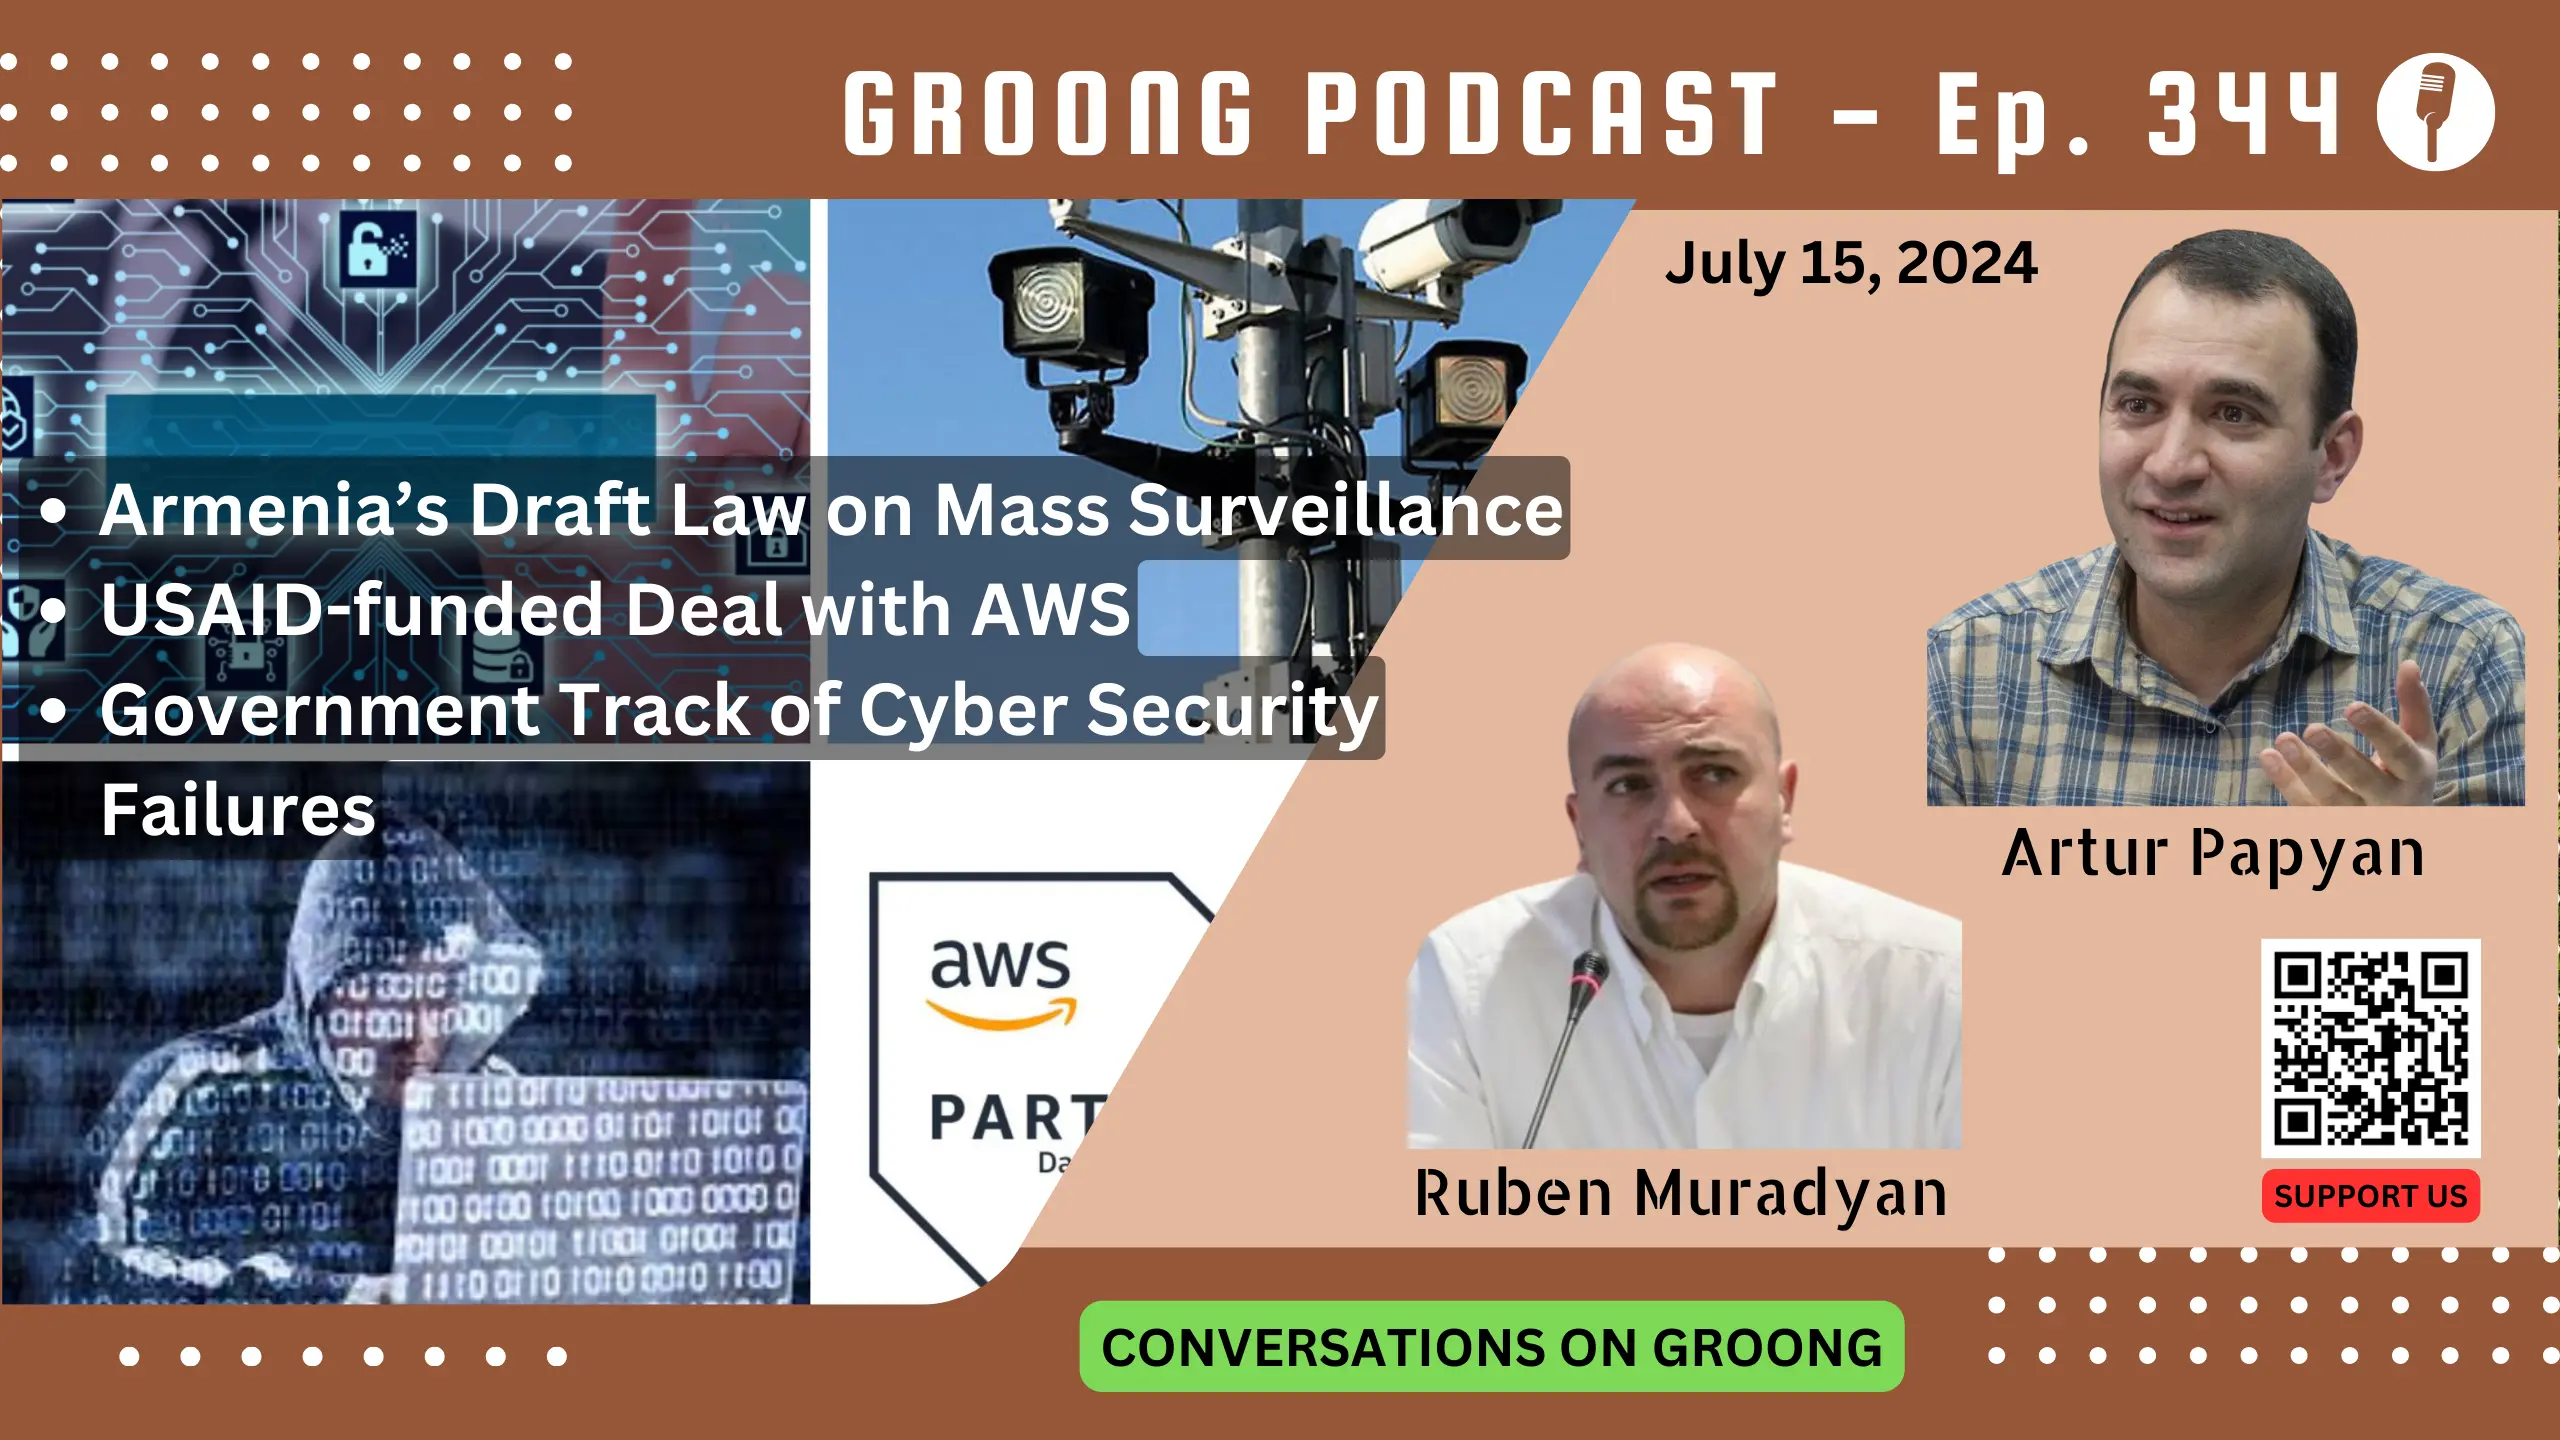
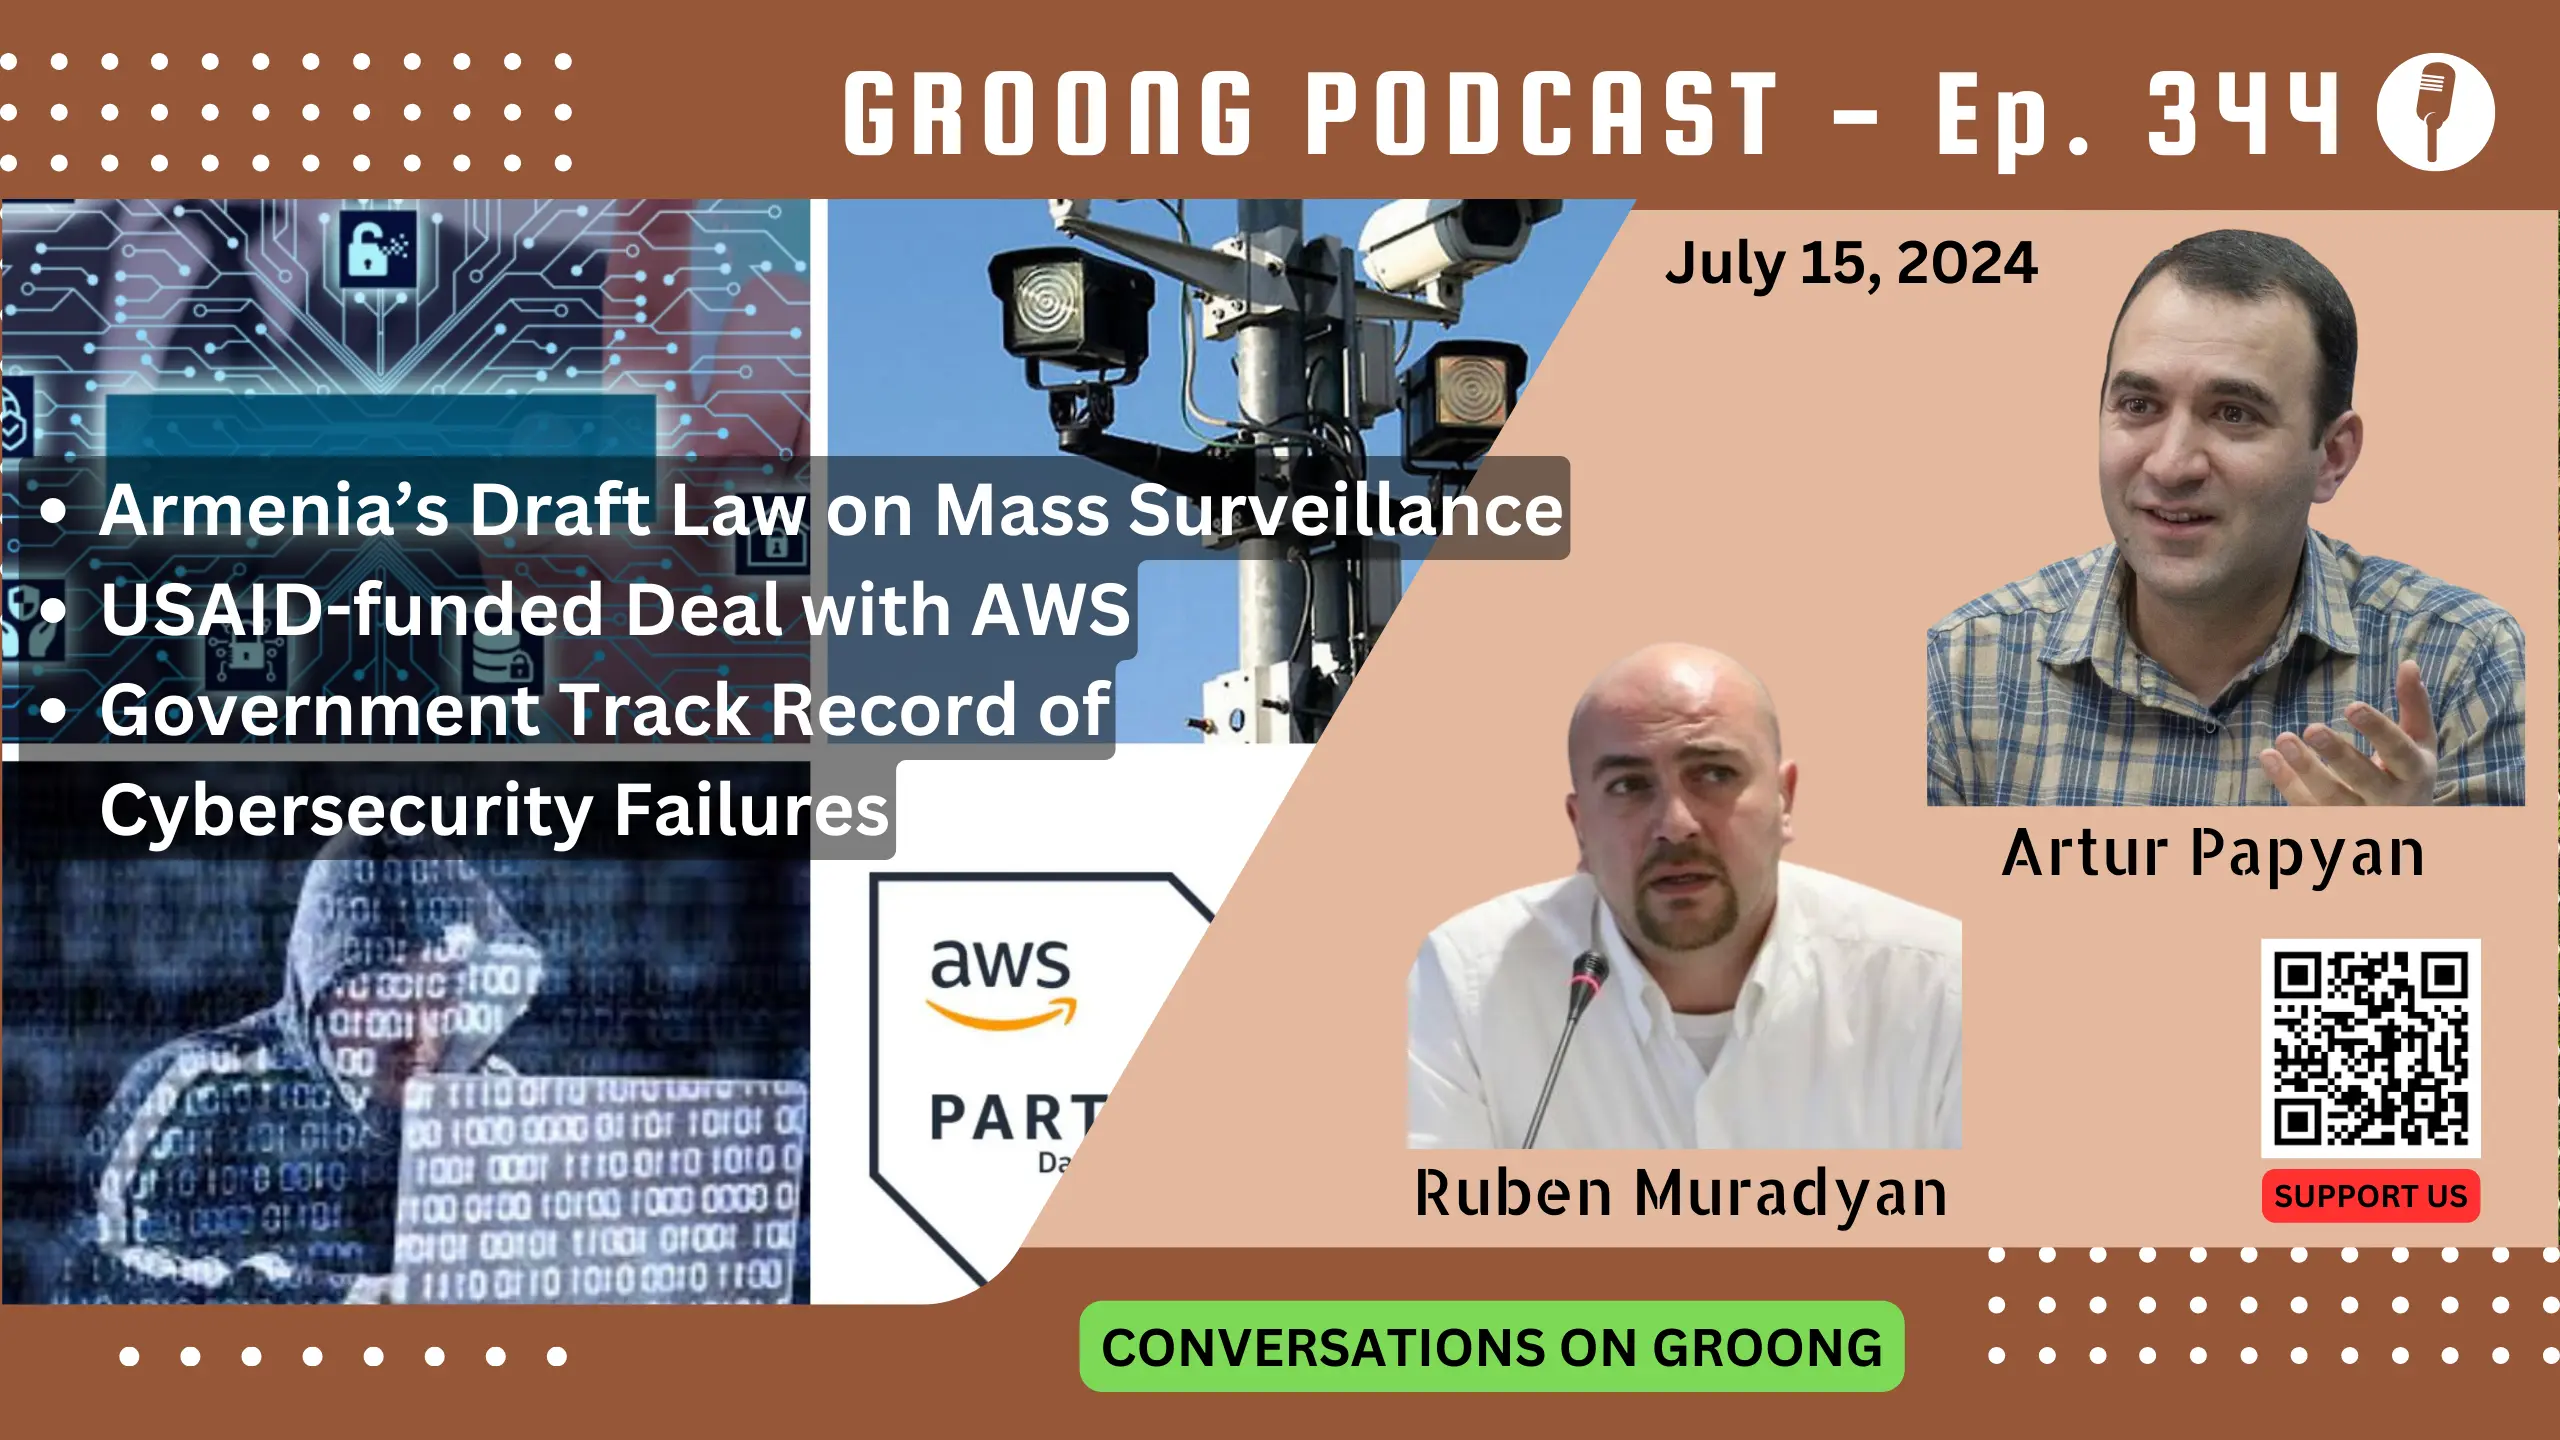
Go Live Ep 344 with Ruben Muradyan and Artur Papyan, plus typo fixes to EP 343

Changed region(s): [[0.0312, 0.4375, 0.5625, 0.625]]

diff --git a/content/episode/344-armenia-draft-law-on-cameras-and-mass-surveillance-usaid-funded-aws-deal-gov-track-record-of-cybersecurity-failures.md b/content/episode/344-armenia-draft-law-on-cameras-and-mass-surveillance-usaid-funded-aws-deal-gov-track-record-of-cybersecurity-failures.md
@@ -1,0 +1,123 @@
++++
+Date = 2024-07-15T00:00:00+04:00
+
+podcast_file = "15418390-artur-papyan-ruben-muradyan-on-armenia-s-draft-law-on-mass-surveillance-and-cybersecurity-track-record-ep-344-july-15-2024.mp3"
+podcast_bytes = "43635957"
+podcast_duration = "3633"
+youtube = "UuFeGKmBYrw"
+
+episode_image = "img/episode/344/thumbnail-344.webp"
+episode_banner = "img/episode/344/banner-344.webp"
+images = ["img/episode/344/banner-344.webp"]
+
+title = "Artur Papyan, Ruben Muradyan on Armenia’s Draft Law on Mass Surveillance and Cybersecurity Track Record | Ep 344, July 15, 2024"
+subtitle = "Conversations on Groong - 07/15/2024"
+
+guests = ["apapyan", "rmuradyan"]
+hosts = ["hovik","asbed"]
+
+episode = "344"
+aliases = ["/344"]
+
+series = ["cog"]
+categories = ["Armenia", "Azerbaijan", "Legislation". "Cyber"]
+explicit = "no" # values are "yes" or "no"
+tags = ["Armenian News", "Draft Law", "CyberSecurity", "Surveillance", "Facial Recognition", "Arthur Papyan", "Ruben Muradyan", "Surveillance", "Camera", "Protesters", "Criminals", "Tax Burden", "Unfunded Mandate", "Data Privacy", "Data Protection", "Privacy Invasion", "Amazon Web Services", "AWS", "Data Sovereignty", "GDPR", "EU", "Huawei", "Cryptocurrency", "Online Casinos", "Online Gambling", "Content Filtering", "Central Bank of Armenia", "CBA", "Cybersecurity Failure", "Network Penetration", "Hackers"]
+
+Description = """
+
+#### Groong Links:
+* [GIVE to GROONG](https://podcasts.groong.org/donate)
+* [linktr.ee/Groong](https://linktr.ee/groong)
+
+#### Guest:
+* [Artur Papyan](/guest/apapyan)
+* [Ruben Muradyan](/guest/rmuradyan)
+
+#### Topics:
+* Armenia’s Draft Law on Mass Surveillance
+* USAID-funded Deal with AWS
+* Government Track Record of Cybersecurity Failures
+
+
+Episode 344 | Recorded: July 11, 2024
+"""
+
++++
+
+# Is Armenia Becoming a Surveillance State
+
+
+## Draft Law on Ubiquitous Surveillance
+
+Last month a very onerous [surveillance law](http://parliament.am/drafts.php?sel=showdraft&DraftID=14934&Reading=0) was proposed by Pashinyan’s government, which flew under most radars except the few in the business of security, privacy and and civil rights protections.
+
+Essentially the law would require all but the smallest of businesses to install hi-res cameras to watch over and around the entrance and exits of their premises, and what’s more: to continuously share the video and audio streams with the government.
+
+Pretty much all businesses that occupy over 50 m<sup>2</sup> of space would be affected.
+
+**Questions:**
+* Arthur: Can you give a brief overview of this law for our listeners?
+* Who is going to pay for all of this surveillance equipment, its installation and maintenance?
+    * Note: this is essentially a tax (or fee) on businesses. An unfunded mandate.
+
+Crime and drug trafficking in Armenia has been [on the rise](https://www.azatutyun.am/a/32983511.html) since 2018, when Pashinyan took over. So his government is fully on board with this law, pretending that this will solve their problems. 
+
+The Interior, Defense, and Justice ministries have signed up despite the fact that the Justice ministry’s own Data Protection Agency raised red flags about the proposed law.
+
+**Questions:**
+* What is the current status of this proposed law?
+* What are the privacy concerns with this law, and how have privacy experts reacted to it?
+* Has the government submitted this law to international organizations for a review, and comparison with other similar laws?
+* Are there examples of other countries where this type of law exists?
+* Will businesses even be notified if their data is accessed? Or is there a subpoena process for accessing the data?
+
+
+### Trust and Verify
+
+One of the key concerns to address is **trust** in a centralized surveillance system. Who will be reviewing the data feeds, what policies govern the data protection, handling and retention aspects, and how will it be possible to verify the trust that people must put in the government, ANY government. The Armenian government’s [track record for information access is not good](https://csometer.info/updates/armenia-draft-law-access-information-criticised-csos).
+
+**Questions:**
+* Are there any regulations in Armenia governing the handling of this type of data?
+    * Are the regulations robust?
+
+
+## Armenia’s US-funded Deal with AWS
+
+As if our concern about Armenia increasing its surveillance of its citizens, we were reminded this week about a new concern. During her visit to Armenia this week, Samantha Power, director of the USAID, [announced](https://www.usaid.gov/news-information/speeches/jul-10-2024-administrator-samantha-powers-remarks-government-armenia-and-amazon-web-services-collaboration) a US-funded deal for the Armenian government to use Amazon Web Services (AWS) as part of its “digital transformation” efforts.
+
+The announcement sounded more like a press release drafted by a cloud provider than the US government but specifically said that Armenia needs systems **_“that can withstand cyber attacks, systems that are governed by clear regulatory frameworks that protect human rights and privacy for citizens”._**
+
+**Question:**
+* Do we know any more details about how the Armenian government plans to use this money?
+
+
+### Data Sovereignty
+
+One of the main aspects of this deal is that Armenia would lose sovereignty over any of the data it stores in AWS, because AWS does not have data centers in Armenia.
+
+There are numerous compliance laws that countries have put forth to govern how cloud providers should store and process their data. These are normally called “Regions” by cloud providers and you as a customer can instruct the cloud provider to store your data in only a specific region. GDPR is a popular EU-wide regulation that, for instance, stipulates that data of EU persons should be stored only in EU regions or in regions that have safe harbor agreements with the EU.
+
+**Questions:**
+* Do we know what type of data the Armenian government intends to store in the cloud?
+* Even if not a privacy issue, is there a data sovereignty issue?
+
+
+## Cyber Security Failures
+
+During the 44-day war the government was [hacked](https://telecom.arka.am/en/news/telecom/azerbaijani_hackers_get_access_to_video_cameras_in_armenian_homes_stores_and_other_places/) by Azerbaijan, and they still don’t know the full extent of the intrusion. We haven’t seen any follow-through or audit on this either. Among other resources, Armenia’s network of street cameras were [hacked](https://jam-news.net/surveillance-cameras-in-armenia/).
+
+**Questions:**
+* What’s the current state of our national cybersecurity posture?
+    * Is it any better than it was in 2020?
+* Has there been any investigative analysis of the 2020 cyber attacks, with mitigation recommendations?
+* What ongoing process will people have to ensure that this onerous surveillance system does not fall into enemy hands?
+    * And that is, if one can consider the government as a non-enemy.
+
+
+
+# Wrap-up
+
+That’s our [show](https://podcasts.groong.org/), we hope you found it useful. Please find us on [Social Media](https://lintr.ee/groong) and follow us everywhere you get your Armenian news.
+
+Thanks to **Laura Osborn** for the music on our podcasts. We’ll talk to you soon!

diff --git a/content/episode/343-rafael-ishkhanyan-report-on-police-brutality-pace-resolution-armenia-high-pretrial-detention-rate-avetik-chalabyan.md b/content/episode/343-rafael-ishkhanyan-report-on-police-brutality-pace-resolution-armenia-high-pretrial-detention-rate-avetik-chalabyan.md
@@ -1,7 +1,7 @@
 +++
 Date = 2024-07-13T20:20:32+04:00
 
-title = "Rafael Ishkhanyan - Report on Police Brutality on June 12, Armenia High Pretrial Detention Rate, Acetic Chalabyan | Ep 343 - July 11, 2024"
+title = "Rafael Ishkhanyan - Report on Police Brutality on June 12, Armenia High Pretrial Detention Rate, Avetik Chalabyan | Ep 343 - July 11, 2024"
 subtitle = "ANN Groong - Spotlight on Silence"
 
 
